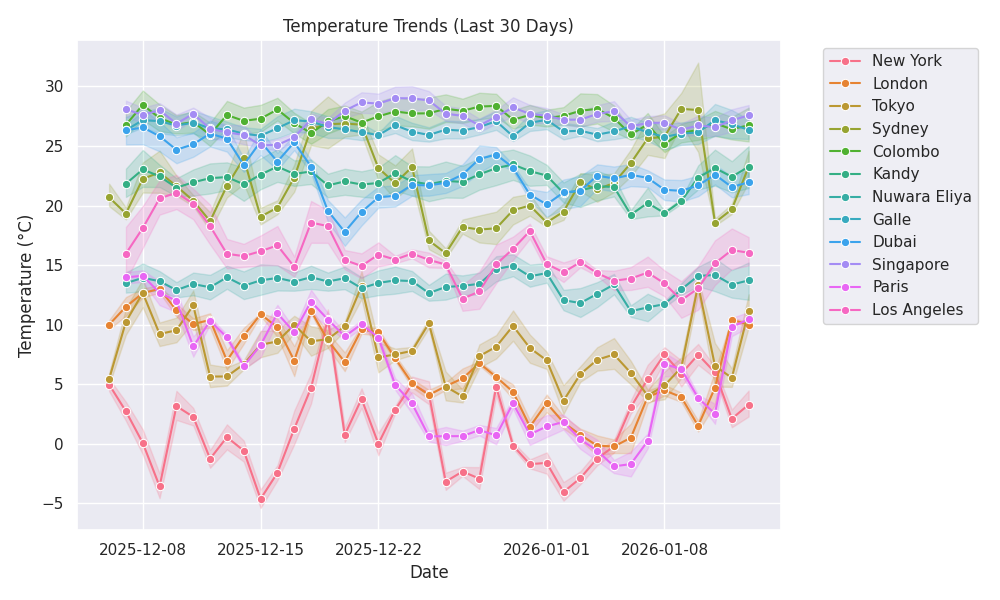
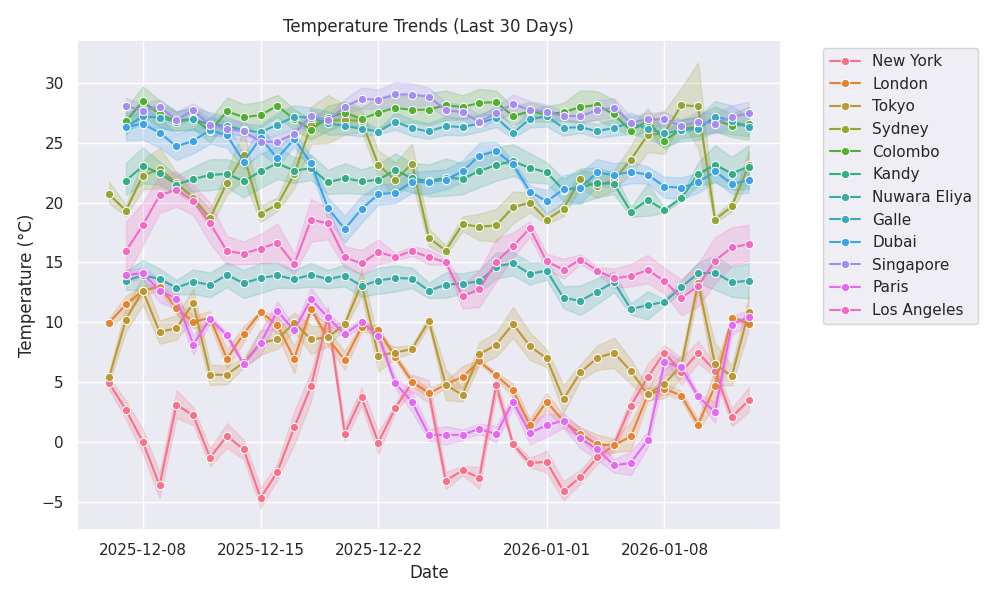
🌦 Weather update: 2026-01-13 20:16

diff --git a/public/index.html b/public/index.html
@@ -11,7 +11,7 @@
     <div class="max-w-6xl mx-auto">
         <header class="mb-8 text-center">
             <h1 class="text-4xl font-bold mb-2">🌍 Global Weather Dashboard</h1>
-            <p class="text-slate-400">Last Updated: 2026-01-13 19:15:06</p>
+            <p class="text-slate-400">Last Updated: 2026-01-13 20:16:17</p>
         </header>
         
         <!-- AI Summary -->
@@ -29,42 +29,42 @@
                     <span class="text-3xl">☀</span>
                 </div>
                 <div class="mt-4">
-                    <p class="text-4xl font-bold">11.54°C</p>
+                    <p class="text-4xl font-bold">11.28°C</p>
                     <p class="text-slate-400 capitalize">clear sky</p>
                 </div>
                 <div class="mt-4 text-sm text-slate-500">
-                    <p>💧 Humidity: 74%</p>
-                    <p>💨 Wind: 4.63 m/s</p>
+                    <p>💧 Humidity: 75%</p>
+                    <p>💨 Wind: 2.57 m/s</p>
                 </div>
             </div>
             
             <div class="bg-slate-800 p-6 rounded-xl shadow-lg border-t-4 border-blue-500 hover:scale-105 transition-transform">
                 <div class="flex justify-between items-start">
                     <h3 class="text-xl font-bold">London</h3>
-                    <span class="text-3xl">☁</span>
+                    <span class="text-3xl">🌧</span>
                 </div>
                 <div class="mt-4">
-                    <p class="text-4xl font-bold">9.6°C</p>
-                    <p class="text-slate-400 capitalize">overcast clouds</p>
+                    <p class="text-4xl font-bold">8.52°C</p>
+                    <p class="text-slate-400 capitalize">light rain</p>
                 </div>
                 <div class="mt-4 text-sm text-slate-500">
-                    <p>💧 Humidity: 93%</p>
-                    <p>💨 Wind: 3.6 m/s</p>
+                    <p>💧 Humidity: 90%</p>
+                    <p>💨 Wind: 4.12 m/s</p>
                 </div>
             </div>
             
             <div class="bg-slate-800 p-6 rounded-xl shadow-lg border-t-4 border-blue-500 hover:scale-105 transition-transform">
                 <div class="flex justify-between items-start">
                     <h3 class="text-xl font-bold">Sydney</h3>
-                    <span class="text-3xl">☀</span>
+                    <span class="text-3xl">☁</span>
                 </div>
                 <div class="mt-4">
-                    <p class="text-4xl font-bold">19.24°C</p>
-                    <p class="text-slate-400 capitalize">clear sky</p>
+                    <p class="text-4xl font-bold">20.16°C</p>
+                    <p class="text-slate-400 capitalize">scattered clouds</p>
                 </div>
                 <div class="mt-4 text-sm text-slate-500">
-                    <p>💧 Humidity: 92%</p>
-                    <p>💨 Wind: 0.45 m/s</p>
+                    <p>💧 Humidity: 91%</p>
+                    <p>💨 Wind: 2.06 m/s</p>
                 </div>
             </div>
             
@@ -78,8 +78,8 @@
                     <p class="text-slate-400 capitalize">broken clouds</p>
                 </div>
                 <div class="mt-4 text-sm text-slate-500">
-                    <p>💧 Humidity: 88%</p>
-                    <p>💨 Wind: 4.63 m/s</p>
+                    <p>💧 Humidity: 89%</p>
+                    <p>💨 Wind: 3.09 m/s</p>
                 </div>
             </div>
             
@@ -89,12 +89,12 @@
                     <span class="text-3xl">☀</span>
                 </div>
                 <div class="mt-4">
-                    <p class="text-4xl font-bold">20.96°C</p>
+                    <p class="text-4xl font-bold">19.96°C</p>
                     <p class="text-slate-400 capitalize">clear sky</p>
                 </div>
                 <div class="mt-4 text-sm text-slate-500">
-                    <p>💧 Humidity: 64%</p>
-                    <p>💨 Wind: 2.57 m/s</p>
+                    <p>💧 Humidity: 68%</p>
+                    <p>💨 Wind: 3.6 m/s</p>
                 </div>
             </div>
             
@@ -104,12 +104,12 @@
                     <span class="text-3xl">☁</span>
                 </div>
                 <div class="mt-4">
-                    <p class="text-4xl font-bold">24.94°C</p>
-                    <p class="text-slate-400 capitalize">few clouds</p>
+                    <p class="text-4xl font-bold">24.61°C</p>
+                    <p class="text-slate-400 capitalize">scattered clouds</p>
                 </div>
                 <div class="mt-4 text-sm text-slate-500">
-                    <p>💧 Humidity: 84%</p>
-                    <p>💨 Wind: 0.73 m/s</p>
+                    <p>💧 Humidity: 85%</p>
+                    <p>💨 Wind: 0.16 m/s</p>
                 </div>
             </div>
             
@@ -119,12 +119,12 @@
                     <span class="text-3xl">☁</span>
                 </div>
                 <div class="mt-4">
-                    <p class="text-4xl font-bold">9.16°C</p>
+                    <p class="text-4xl font-bold">9.1°C</p>
                     <p class="text-slate-400 capitalize">few clouds</p>
                 </div>
                 <div class="mt-4 text-sm text-slate-500">
                     <p>💧 Humidity: 88%</p>
-                    <p>💨 Wind: 1.17 m/s</p>
+                    <p>💨 Wind: 1.1 m/s</p>
                 </div>
             </div>
             
@@ -134,12 +134,12 @@
                     <span class="text-3xl">☁</span>
                 </div>
                 <div class="mt-4">
-                    <p class="text-4xl font-bold">18.53°C</p>
+                    <p class="text-4xl font-bold">18.36°C</p>
                     <p class="text-slate-400 capitalize">scattered clouds</p>
                 </div>
                 <div class="mt-4 text-sm text-slate-500">
                     <p>💧 Humidity: 97%</p>
-                    <p>💨 Wind: 2.07 m/s</p>
+                    <p>💨 Wind: 2.0 m/s</p>
                 </div>
             </div>
             
@@ -150,11 +150,11 @@
                 </div>
                 <div class="mt-4">
                     <p class="text-4xl font-bold">23.35°C</p>
-                    <p class="text-slate-400 capitalize">scattered clouds</p>
+                    <p class="text-slate-400 capitalize">few clouds</p>
                 </div>
                 <div class="mt-4 text-sm text-slate-500">
                     <p>💧 Humidity: 95%</p>
-                    <p>💨 Wind: 3.85 m/s</p>
+                    <p>💨 Wind: 3.97 m/s</p>
                 </div>
             </div>
             
@@ -164,12 +164,12 @@
                     <span class="text-3xl">☀</span>
                 </div>
                 <div class="mt-4">
-                    <p class="text-4xl font-bold">8.44°C</p>
+                    <p class="text-4xl font-bold">7.78°C</p>
                     <p class="text-slate-400 capitalize">clear sky</p>
                 </div>
                 <div class="mt-4 text-sm text-slate-500">
-                    <p>💧 Humidity: 43%</p>
-                    <p>💨 Wind: 6.69 m/s</p>
+                    <p>💧 Humidity: 49%</p>
+                    <p>💨 Wind: 7.2 m/s</p>
                 </div>
             </div>
             
@@ -179,12 +179,12 @@
                     <span class="text-3xl">☀</span>
                 </div>
                 <div class="mt-4">
-                    <p class="text-4xl font-bold">6.26°C</p>
+                    <p class="text-4xl font-bold">6.02°C</p>
                     <p class="text-slate-400 capitalize">clear sky</p>
                 </div>
                 <div class="mt-4 text-sm text-slate-500">
-                    <p>💧 Humidity: 47%</p>
-                    <p>💨 Wind: 0.45 m/s</p>
+                    <p>💧 Humidity: 46%</p>
+                    <p>💨 Wind: 3.6 m/s</p>
                 </div>
             </div>
             
@@ -194,12 +194,12 @@
                     <span class="text-3xl">☀</span>
                 </div>
                 <div class="mt-4">
-                    <p class="text-4xl font-bold">23.04°C</p>
+                    <p class="text-4xl font-bold">25.45°C</p>
                     <p class="text-slate-400 capitalize">clear sky</p>
                 </div>
                 <div class="mt-4 text-sm text-slate-500">
-                    <p>💧 Humidity: 26%</p>
-                    <p>💨 Wind: 2.06 m/s</p>
+                    <p>💧 Humidity: 23%</p>
+                    <p>💨 Wind: 3.09 m/s</p>
                 </div>
             </div>
             

diff --git a/README.md b/README.md
@@ -8,8 +8,8 @@
 
 ---
 
-## ⚡ Live Status (Updated: 2026-01-13 19:15 UTC)
-![Paris](https://img.shields.io/badge/Paris-11.54°C-blue) ![London](https://img.shields.io/badge/London-9.6°C-blue) ![Sydney](https://img.shields.io/badge/Sydney-19.24°C-green) ![Singapore](https://img.shields.io/badge/Singapore-25.15°C-orange) ![Dubai](https://img.shields.io/badge/Dubai-20.96°C-green) ![Galle](https://img.shields.io/badge/Galle-24.94°C-green) ![Nuwara Eliya](https://img.shields.io/badge/Nuwara%20Eliya-9.16°C-blue) ![Kandy](https://img.shields.io/badge/Kandy-18.53°C-green) ![Colombo](https://img.shields.io/badge/Colombo-23.35°C-green) ![New York](https://img.shields.io/badge/New%20York-8.44°C-blue) ![Tokyo](https://img.shields.io/badge/Tokyo-6.26°C-blue) ![Los Angeles](https://img.shields.io/badge/Los%20Angeles-23.04°C-green) 
+## ⚡ Live Status (Updated: 2026-01-13 20:16 UTC)
+![Paris](https://img.shields.io/badge/Paris-11.28°C-blue) ![London](https://img.shields.io/badge/London-8.52°C-blue) ![Sydney](https://img.shields.io/badge/Sydney-20.16°C-green) ![Singapore](https://img.shields.io/badge/Singapore-25.15°C-orange) ![Dubai](https://img.shields.io/badge/Dubai-19.96°C-green) ![Galle](https://img.shields.io/badge/Galle-24.61°C-green) ![Nuwara Eliya](https://img.shields.io/badge/Nuwara%20Eliya-9.1°C-blue) ![Kandy](https://img.shields.io/badge/Kandy-18.36°C-green) ![Colombo](https://img.shields.io/badge/Colombo-23.35°C-green) ![New York](https://img.shields.io/badge/New%20York-7.78°C-blue) ![Tokyo](https://img.shields.io/badge/Tokyo-6.02°C-blue) ![Los Angeles](https://img.shields.io/badge/Los%20Angeles-25.45°C-orange) 
 
 <div align="center">
   <h3>🏆 Weather Records (Live)</h3>
@@ -19,8 +19,8 @@
         <td align="center">❄ <b>Coldest City</b></td>
     </tr>
     <tr>
-        <td align="center"><b>Singapore</b><br>25.15°C</td>
-        <td align="center"><b>Tokyo</b><br>6.26°C</td>
+        <td align="center"><b>Los Angeles</b><br>25.45°C</td>
+        <td align="center"><b>Tokyo</b><br>6.02°C</td>
     </tr>
   </table>
 </div>
@@ -28,18 +28,18 @@
 ## 📊 Global Overview
 | 🌍 City | 🌡 Temp | 🌤 Condition | 💧 Humidity | 🌬 Wind |
 |---|---|---|---|---|
-| **Paris** | 11.54°C | clear sky | 🟦🟦🟦⬜⬜ 74% | 4.63 m/s |
-| **London** | 9.6°C | overcast clouds | 🟦🟦🟦🟦⬜ 93% | 3.6 m/s |
-| **Sydney** | 19.24°C | clear sky | 🟦🟦🟦🟦⬜ 92% | 0.45 m/s |
-| **Singapore** | 25.15°C | broken clouds | 🟦🟦🟦🟦⬜ 88% | 4.63 m/s |
-| **Dubai** | 20.96°C | clear sky | 🟦🟦🟦⬜⬜ 64% | 2.57 m/s |
-| **Galle** | 24.94°C | few clouds | 🟦🟦🟦🟦⬜ 84% | 0.73 m/s |
-| **Nuwara Eliya** | 9.16°C | few clouds | 🟦🟦🟦🟦⬜ 88% | 1.17 m/s |
-| **Kandy** | 18.53°C | scattered clouds | 🟦🟦🟦🟦⬜ 97% | 2.07 m/s |
-| **Colombo** | 23.35°C | scattered clouds | 🟦🟦🟦🟦⬜ 95% | 3.85 m/s |
-| **New York** | 8.44°C | clear sky | 🟦🟦⬜⬜⬜ 43% | 6.69 m/s |
-| **Tokyo** | 6.26°C | clear sky | 🟦🟦⬜⬜⬜ 47% | 0.45 m/s |
-| **Los Angeles** | 23.04°C | clear sky | 🟦⬜⬜⬜⬜ 26% | 2.06 m/s |
+| **Paris** | 11.28°C | clear sky | 🟦🟦🟦⬜⬜ 75% | 2.57 m/s |
+| **London** | 8.52°C | light rain | 🟦🟦🟦🟦⬜ 90% | 4.12 m/s |
+| **Sydney** | 20.16°C | scattered clouds | 🟦🟦🟦🟦⬜ 91% | 2.06 m/s |
+| **Singapore** | 25.15°C | broken clouds | 🟦🟦🟦🟦⬜ 89% | 3.09 m/s |
+| **Dubai** | 19.96°C | clear sky | 🟦🟦🟦⬜⬜ 68% | 3.6 m/s |
+| **Galle** | 24.61°C | scattered clouds | 🟦🟦🟦🟦⬜ 85% | 0.16 m/s |
+| **Nuwara Eliya** | 9.1°C | few clouds | 🟦🟦🟦🟦⬜ 88% | 1.1 m/s |
+| **Kandy** | 18.36°C | scattered clouds | 🟦🟦🟦🟦⬜ 97% | 2.0 m/s |
+| **Colombo** | 23.35°C | few clouds | 🟦🟦🟦🟦⬜ 95% | 3.97 m/s |
+| **New York** | 7.78°C | clear sky | 🟦🟦⬜⬜⬜ 49% | 7.2 m/s |
+| **Tokyo** | 6.02°C | clear sky | 🟦🟦⬜⬜⬜ 46% | 3.6 m/s |
+| **Los Angeles** | 25.45°C | clear sky | 🟦⬜⬜⬜⬜ 23% | 3.09 m/s |
 
 
 ## 📈 Temperature Trends
